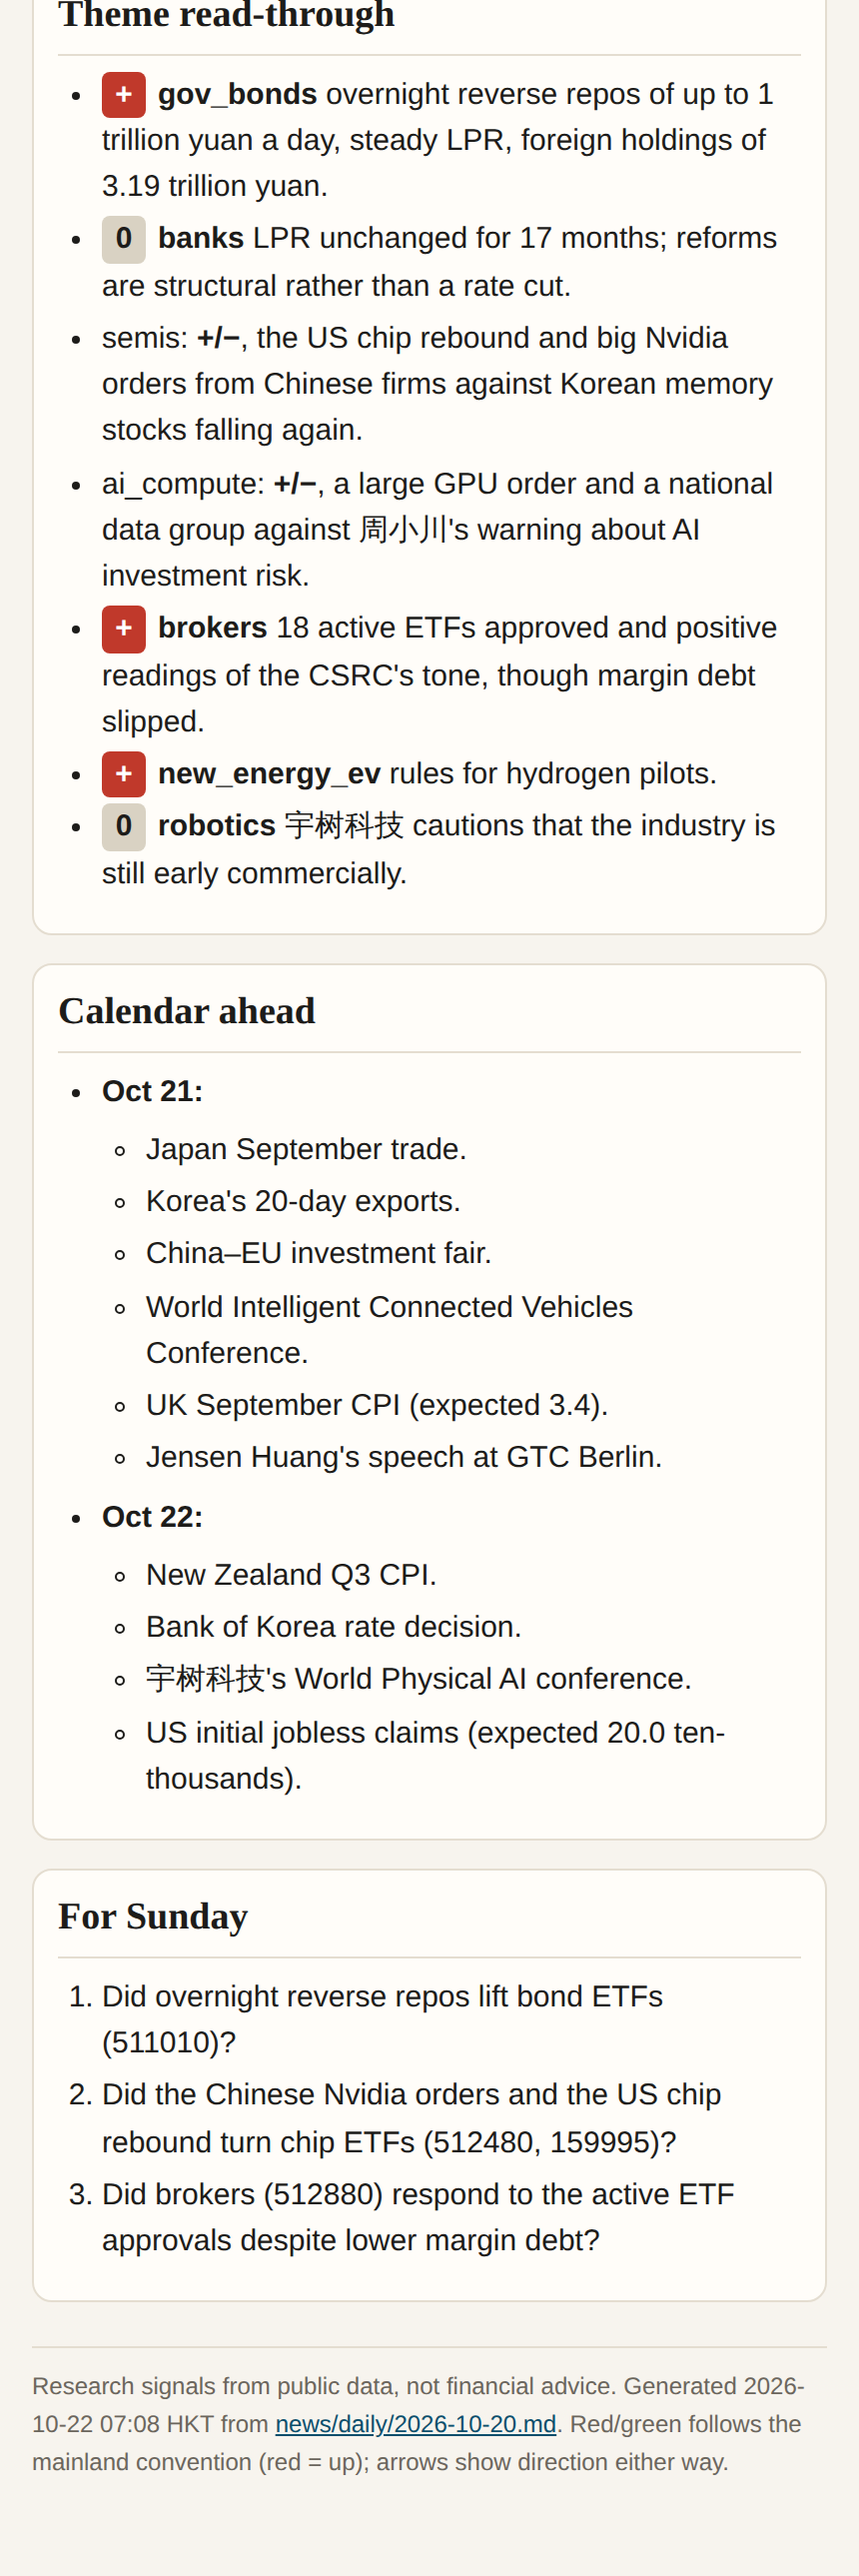
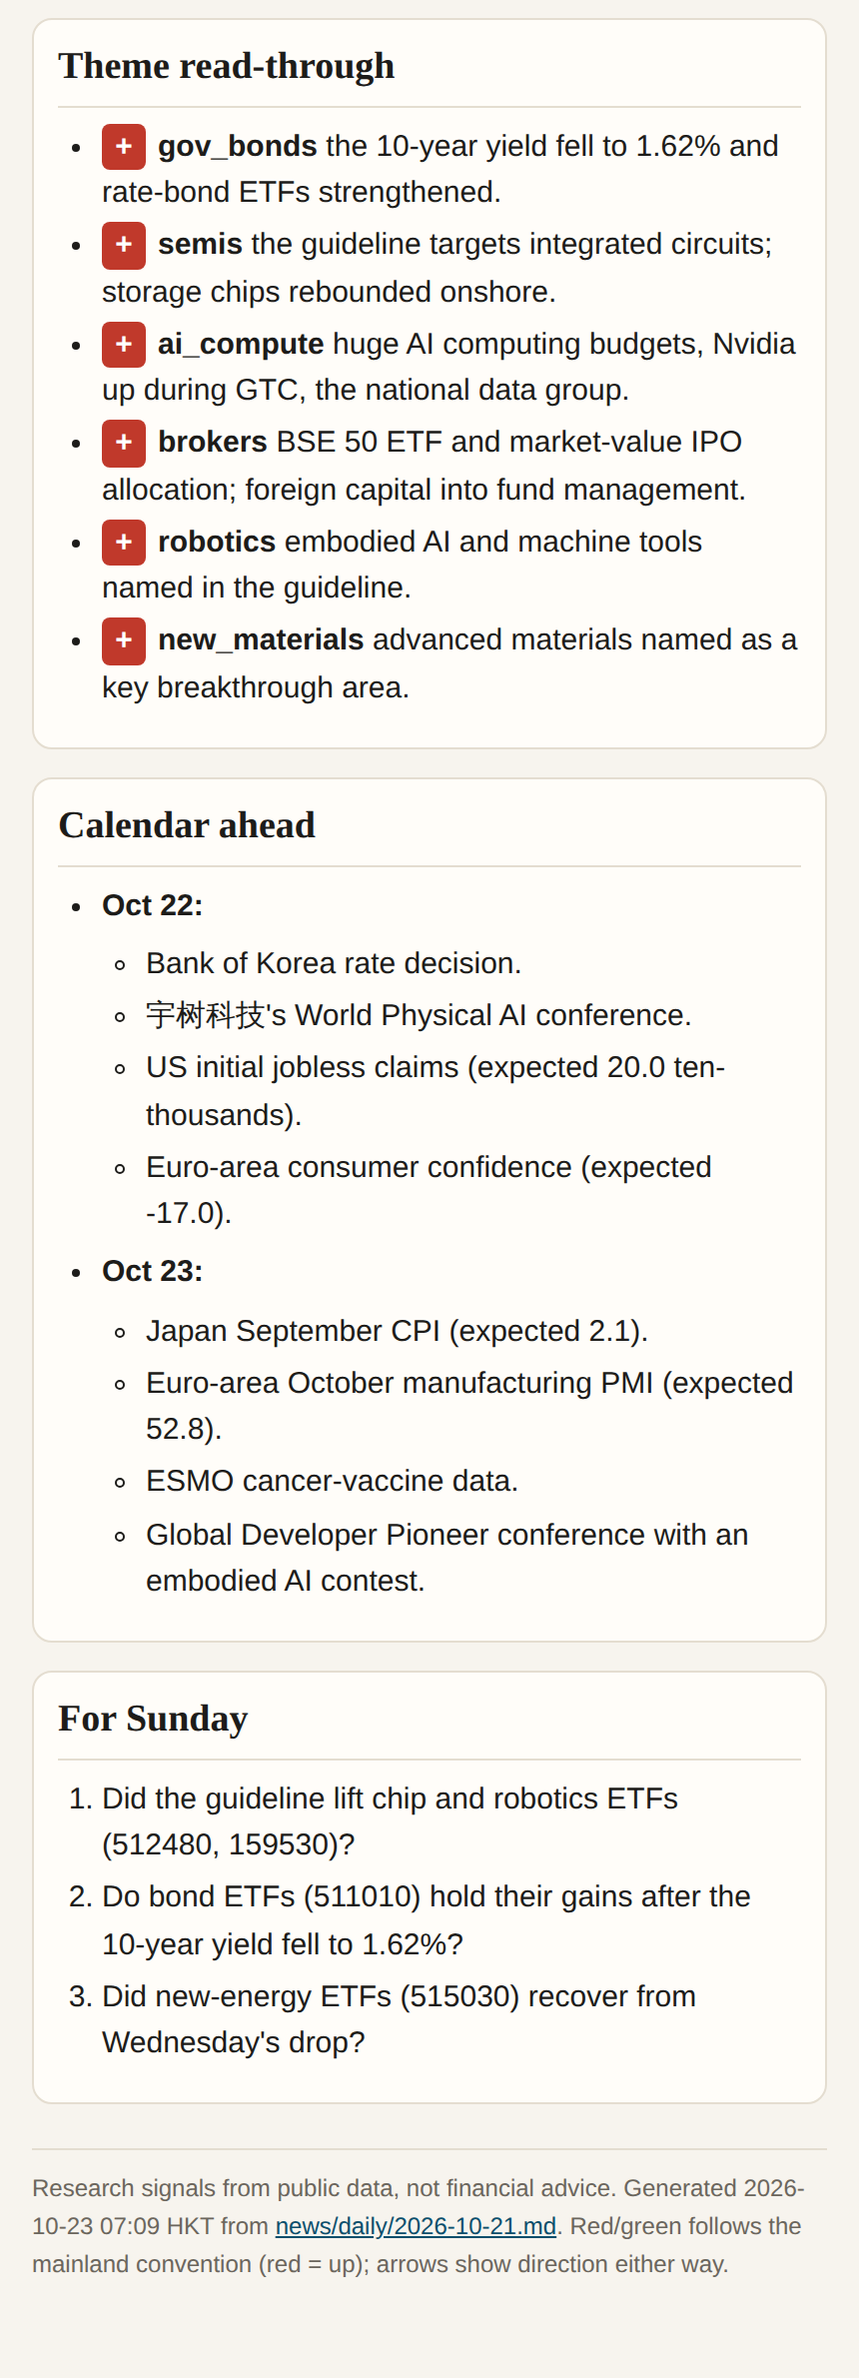
brief images 2026-10-23 07:10

diff --git a/briefs/README.md b/briefs/README.md
@@ -17,9 +17,9 @@ Screenshots of the latest HTML brief of each scheduled task, for the GitHub mobi
 
 <a id="news"></a>
 
-## Daily news digest: News digest 2026-10-20
+## Daily news digest: News digest 2026-10-21
 
-News for 2026-10-20 · for the Sunday advisor · updated 2026-10-22 07:08 HKT · [HTML](news.html)
+News for 2026-10-21 · for the Sunday advisor · updated 2026-10-23 07:09 HKT · [HTML](news.html)
 
 ![Daily news digest part 1](img/news-1.png)
 ![Daily news digest part 2](img/news-2.png)
